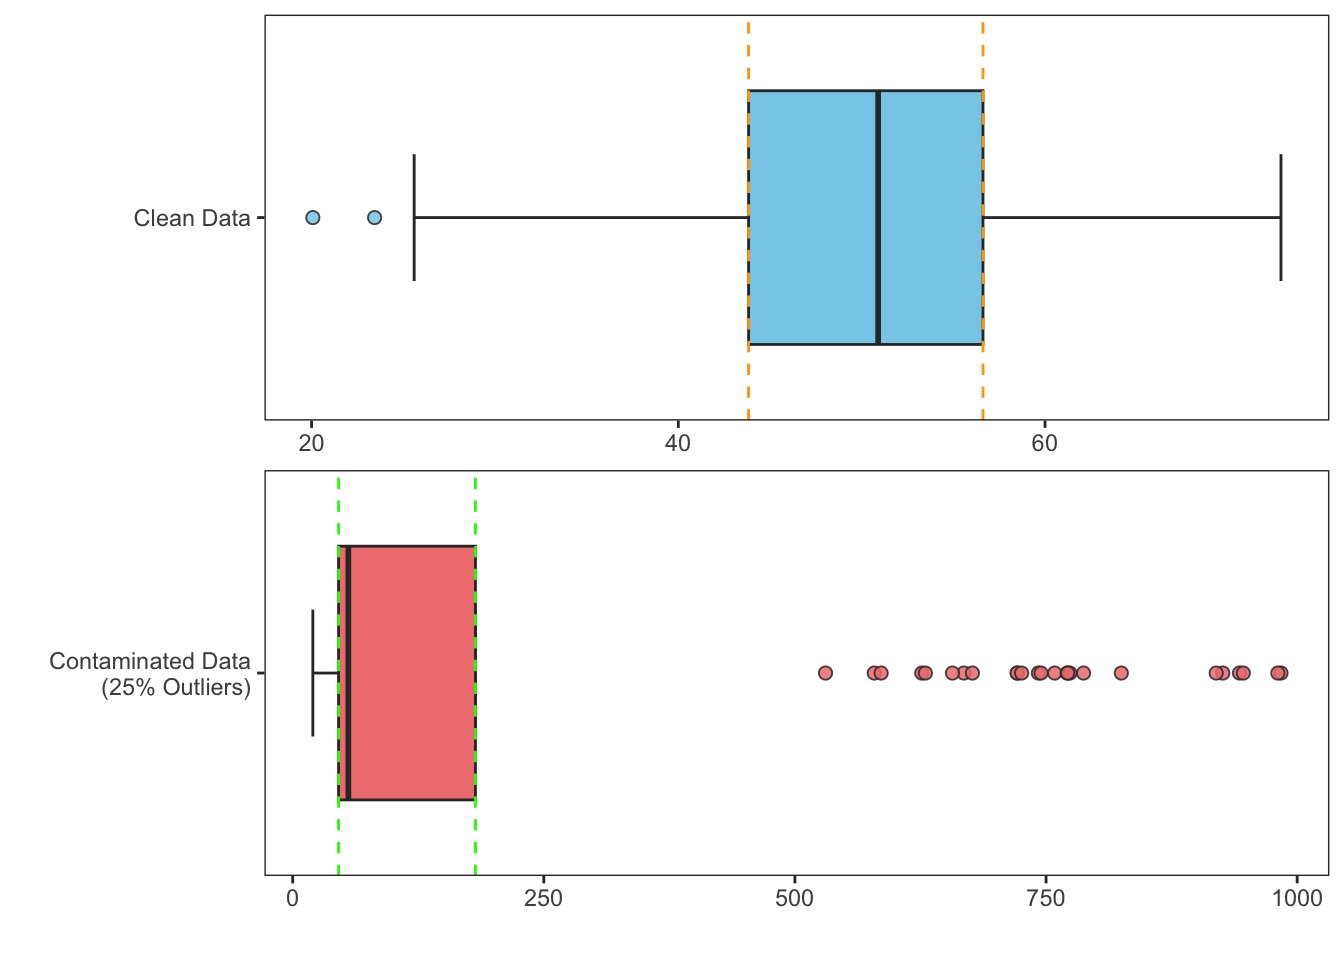
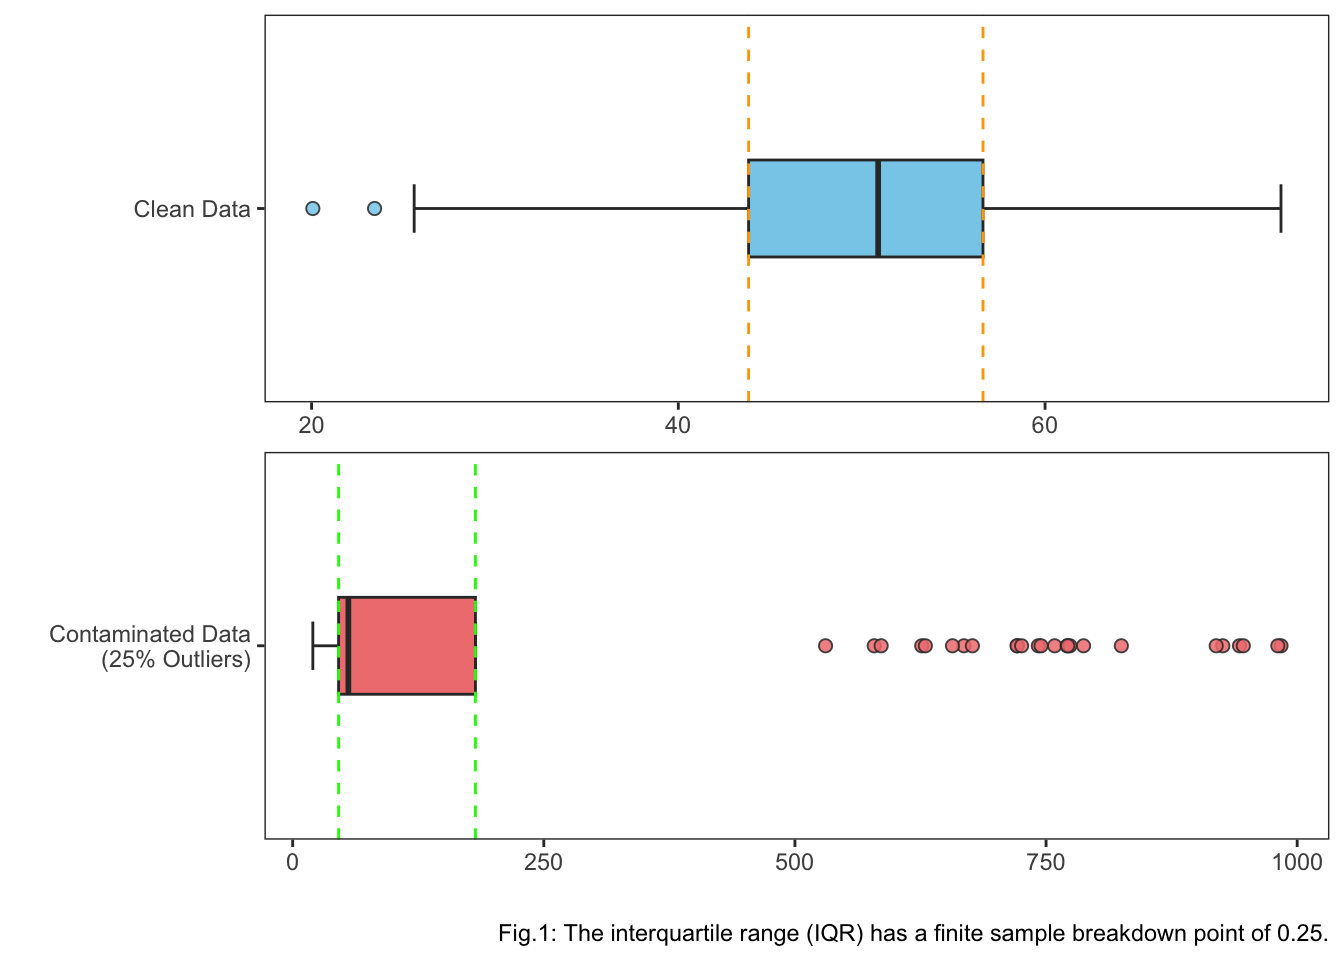
Updates

diff --git a/docs/blog/posts/post7/index.html b/docs/blog/posts/post7/index.html
@@ -8,9 +8,9 @@
 
 <meta name="author" content="Christian L. Goueguel">
 <meta name="dcterms.date" content="2023-11-20">
-<meta name="description" content="Boxplots, also known as box-and-whisker plots, have been a cornerstone of data visualization since their introduction by John Tukey in the 1970s. Boxplots are designed to smmuarise the distribution of a dataset, highlighting the central tendency, spread, and potential outliers. Despite their enduring utility, standard boxplots assume a symmetric distribution and may misrepresent datasets with skewness or heavy tails. Alternative approaches have been proposed to address these limitations.">
+<meta name="description" content="Boxplots, also known as box-and-whisker plots, have been a cornerstone of data visualization since their introduction by John Tukey in the 1970s. Despite their enduring utility, boxplot assumes a symmetric distribution and might misrepresent datasets with skewness or heavy tails. Alternative approaches have been proposed to address these limitations.">
 
-<title>Beyond Traditional Boxplots: The Adjusted and Generalized Boxplots – Christian L. Goueguel</title>
+<title>Beyond Traditional Boxplot: The Adjusted and Generalized Boxplots – Christian L. Goueguel</title>
 <style>
 code{white-space: pre-wrap;}
 span.smallcaps{font-variant: small-caps;}
@@ -70,10 +70,39 @@ ul.task-list li input[type="checkbox"] {
   }
 }</script>
 
+  <script src="https://cdnjs.cloudflare.com/polyfill/v3/polyfill.min.js?features=es6"></script>
+  <script src="https://cdn.jsdelivr.net/npm/mathjax@3/es5/tex-chtml-full.js" type="text/javascript"></script>
+
+<script type="text/javascript">
+const typesetMath = (el) => {
+  if (window.MathJax) {
+    // MathJax Typeset
+    window.MathJax.typeset([el]);
+  } else if (window.katex) {
+    // KaTeX Render
+    var mathElements = el.getElementsByClassName("math");
+    var macros = [];
+    for (var i = 0; i < mathElements.length; i++) {
+      var texText = mathElements[i].firstChild;
+      if (mathElements[i].tagName == "SPAN") {
+        window.katex.render(texText.data, mathElements[i], {
+          displayMode: mathElements[i].classList.contains('display'),
+          throwOnError: false,
+          macros: macros,
+          fleqn: false
+        });
+      }
+    }
+  }
+}
+window.Quarto = {
+  typesetMath
+};
+</script>
 
 <link rel="stylesheet" href="../../../styles.scss">
-<meta property="og:title" content="Beyond Traditional Boxplots: The Adjusted and Generalized Boxplots – Christian L. Goueguel">
-<meta property="og:description" content="Boxplots, also known as box-and-whisker plots, have been a cornerstone of data visualization since their introduction by John Tukey in the 1970s. Boxplots are designed to smmuarise the distribution of a dataset, highlighting the central tendency, spread, and potential outliers. Despite their enduring utility, standard boxplots assume a symmetric distribution and may misrepresent datasets with skewness or heavy tails. Alternative approaches have been proposed to address these limitations.">
+<meta property="og:title" content="Beyond Traditional Boxplot: The Adjusted and Generalized Boxplots – Christian L. Goueguel">
+<meta property="og:description" content="Boxplots, also known as box-and-whisker plots, have been a cornerstone of data visualization since their introduction by John Tukey in the 1970s. Despite their enduring utility, boxplot assumes a symmetric distribution and might misrepresent datasets with skewness or heavy tails. Alternative approaches have been proposed to address these limitations.">
 <meta property="og:image" content="cover.png">
 <meta property="og:site_name" content="Christian L. Goueguel">
 </head>
@@ -146,7 +175,7 @@ ul.task-list li input[type="checkbox"] {
 
 <header id="title-block-header" class="quarto-title-block default">
 <div class="quarto-title">
-<h1 class="title">Beyond Traditional Boxplots: The Adjusted and Generalized Boxplots</h1>
+<h1 class="title">Beyond Traditional Boxplot: The Adjusted and Generalized Boxplots</h1>
   <div class="quarto-categories">
     <div class="quarto-category">Preprocessing</div>
     <div class="quarto-category">Chemometrics</div>
@@ -158,7 +187,7 @@ ul.task-list li input[type="checkbox"] {
 
 <div>
   <div class="description">
-    Boxplots, also known as box-and-whisker plots, have been a cornerstone of data visualization since their introduction by John Tukey in the 1970s. Boxplots are designed to smmuarise the distribution of a dataset, highlighting the central tendency, spread, and potential outliers. Despite their enduring utility, standard boxplots assume a symmetric distribution and may misrepresent datasets with skewness or heavy tails. Alternative approaches have been proposed to address these limitations.
+    Boxplots, also known as box-and-whisker plots, have been a cornerstone of data visualization since their introduction by John Tukey in the 1970s. Despite their enduring utility, boxplot assumes a symmetric distribution and might misrepresent datasets with skewness or heavy tails. Alternative approaches have been proposed to address these limitations.
   </div>
 </div>
 
@@ -196,21 +225,8 @@ ul.task-list li input[type="checkbox"] {
 </div>
 <section id="tukeys-boxplot" class="level2">
 <h2 class="anchored" data-anchor-id="tukeys-boxplot">Tukey’s Boxplot</h2>
-<p>Proposed by Tukey in 1977 [1], a boxplot is constructed using five key summary statistics: the minimum, first quartile (Q1), median, third quartile (Q3), and maximum. These elements are complemented by whiskers, which typically extend to 1.5 times the interquartile range (IQR = Q3 - Q1) beyond Q1 and Q3, respectively. Data points outside this range are flagged as potential outliers. Figure 1 shows a boxplot with two outliers. The ends of the whiskers are called <em>adjacent values.</em> They are the smallest and largest values not declared outliers. Because the interquartile range has a finite sample breakdown point of .25, it takes more than 25% of the data to be outliers before the problem of masking occurs.</p>
-<p>While effective for symmetric distributions, the standard boxplot may inadequately capture the nuances of skewed or heavy-tailed data.</p>
+<p>Proposed by Tukey in 1977 [1], a boxplot is constructed using five key summary statistics: the minimum, first quartile (Q1), median, third quartile (Q3), and maximum. These elements are complemented by whiskers, which typically extend to 1.5 times the interquartile range (IQR = Q3 - Q1) beyond Q1 and Q3, respectively. Data points outside this range are flagged as potential outliers. The ends of the whiskers are called adjacent values. They are the smallest and largest values not flagged outliers. Because the interquartile range has a finite sample breakdown point of 0.25, it takes more than 25% of the data to be outliers before the problem of masking occurs. For example, Fig.1 shows how the quartiles and therefore IQR are significantly influenced by the outliers, highlighting the breakdown point. After replacing 25% of the data with extreme outliers, the IQR increased drastically, from 13 (clean data) to 136 (contaminated data). This demonstrates that with 25% contamination, the IQR becomes unreliable as a measure of spread.</p>
 <div class="cell">
-<div class="cell-output cell-output-stderr">
-<pre><code>── Attaching core tidyverse packages ──────────────────────── tidyverse 2.0.0 ──
-✔ dplyr     1.1.4     ✔ readr     2.1.5
-✔ forcats   1.0.0     ✔ stringr   1.5.1
-✔ ggplot2   3.5.1     ✔ tibble    3.2.1
-✔ lubridate 1.9.3     ✔ tidyr     1.3.1
-✔ purrr     1.0.2     
-── Conflicts ────────────────────────────────────────── tidyverse_conflicts() ──
-✖ dplyr::filter() masks stats::filter()
-✖ dplyr::lag()    masks stats::lag()
-ℹ Use the conflicted package (&lt;http://conflicted.r-lib.org/&gt;) to force all conflicts to become errors</code></pre>
-</div>
 <div class="cell-output-display">
 <div>
 <figure class="figure">
@@ -218,23 +234,33 @@ ul.task-list li input[type="checkbox"] {
 </figure>
 </div>
 </div>
-<div class="cell-output cell-output-stderr">
-<pre><code>Warning: Using `size` aesthetic for lines was deprecated in ggplot2 3.4.0.
-ℹ Please use `linewidth` instead.</code></pre>
 </div>
+<p>While boxplot is a widely used tool for visualizing data distributions, especially when those distributions are symmetric. However, its effectiveness diminishes when dealing with skewed data. In such cases, the boxplot can misrepresent the dataset’s nuances—most notably by classifying an excessive number of larger values as outliers when the distribution is skewed to the right. Recognizing this limitation, Hubert and Vandervieren [2] introduced a refined version of Tukey’s boxplot rule. Their approach incorporates a robust measure of skewness, allowing for a more accurate depiction of asymmetrical distributions while preserving the simplicity and interpretability of the Tukey’s boxplot.</p>
+</section>
+<section id="the-adjusted-boxplot" class="level2">
+<h2 class="anchored" data-anchor-id="the-adjusted-boxplot">The Adjusted Boxplot</h2>
+<p>In 2004, Brys <em>et al</em>. [3] introduced the Medcouple (MC), which is a robust statistic used to measure the skewness of a distribution. Unlike traditional measures of skewness that are sensitive to outliers, MC focuses on the median and the IQR, making it less affected by extreme values. It is based on the difference between left and right data spreads relative to the median. MC is bounded between −1 and 1. A value of 0 indicates a perfectly symmetric distribution, while positive values signify a right-tailed (positively skewed) distribution, and negative values correspond to a left-tailed (negatively skewed) distribution. Importantly, this measure is most effective for moderately skewed distributions, particularly when the absolute value of MC is less than or equal to 0.6 (<span class="math inline">\(|\text{MC}| \leq 0.6\)</span>). MC is given by:</p>
+<p><span class="math display">\[
+\text{MC} = \text{med} \left\{ \frac{(x_i - m) - (m - x_j)}{x_i - x_j} \, \middle| \, x_i \geq m \geq x_j \right\}
+\]</span></p>
+<p>where, <span class="math inline">\(x_i\)</span> and <span class="math inline">\(x_j\)</span> are data points from the sample, <span class="math inline">\(m\)</span> is the median of the sample, and <span class="math inline">\(\text{med}\{\cdot\}\)</span> denotes the median operator.</p>
+<p>To address the limitation of the Tukey’s boxplot in handling skewed data, Hubert and Vandervieren [2] introduced the adjusted boxplot for skewed distribution. This method modifies the whisker length based on the MC. Specifically, the upper whisker extends further for right-skewed data, and the lower whisker extends further for left-skewed data. This new approch modifies the traditional boxplot fences to account for skewness in the data using the exponential function of MC as follows:</p>
+<p><span class="math display">\[
+\begin{aligned}
+    \text{Lower Fence} &amp;= Q_1 - k \cdot e^{-\text{MC}} \cdot \text{IQR} \\
+    \text{Upper Fence} &amp;= Q_3 + k \cdot e^{\text{MC}} \cdot \text{IQR}
+\end{aligned}
+\]</span></p>
+<p>where, <span class="math inline">\(k\)</span> is the fence factor. The adjusted boxplot is optimized for <span class="math inline">\(k = 1.5\)</span>.</p>
+<div class="cell">
 <div class="cell-output-display">
 <div>
 <figure class="figure">
-<p><img src="index_files/figure-html/unnamed-chunk-1-2.png" class="img-fluid figure-img" width="672"></p>
+<p><img src="index_files/figure-html/unnamed-chunk-2-1.png" class="img-fluid figure-img" width="672"></p>
 </figure>
 </div>
 </div>
 </div>
-</section>
-<section id="the-adjusted-boxplot" class="level2">
-<h2 class="anchored" data-anchor-id="the-adjusted-boxplot">The Adjusted Boxplot</h2>
-<p>It should be noted that the boxplot rule for detecting outliers has been criticized on the grounds that it might declare too many points outliers when there is skewness. More precisely, if a distribution is skewed to the right, among the larger values that are observed, too many might be declared outliers. Hubert and Vandervieren (2008) review the literature and suggest a modification of the boxplot rule that is based in part on a robust measure of skewness, called the <em>medcouple</em>, which was introduced by Brys et al.&nbsp;(2004) and is given by:</p>
-<p>To address the limitations of the standard boxplot in handling skewed data, Hubert and Vandervieren (2008) introduced the skew-adjusted boxplot. This method modifies the whisker length based on the medcouple, a robust skewness statistic. Specifically, the upper whisker extends further for right-skewed data, and the lower whisker extends further for left-skewed data. This adjustment ensures a more accurate representation of the data’s spread while retaining the robustness of the standard boxplot.</p>
 </section>
 <section id="the-generalized-boxplot" class="level2">
 <h2 class="anchored" data-anchor-id="the-generalized-boxplot">The Generalized Boxplot</h2>

diff --git a/docs/blog/index.html b/docs/blog/index.html
@@ -263,7 +263,7 @@ Christian L. Goueguel
 </a>
 </div>
 </div>
[2 lines of base64/hex data omitted]
 <div class="thumbnail">
 <p><a href="../blog/posts/post7/index.html" class="no-external"></a></p><a href="../blog/posts/post7/index.html" class="no-external">
 <p><img loading="lazy" src="../blog/posts/post7/cover.png" class="thumbnail-image"></p>
@@ -271,13 +271,13 @@ Christian L. Goueguel
 </div>
 <div class="body">
 <h3 class="no-anchor listing-title">
-<a href="../blog/posts/post7/index.html" class="no-external">Beyond Traditional Boxplots: The Adjusted and Generalized Boxplots</a>
+<a href="../blog/posts/post7/index.html" class="no-external">Beyond Traditional Boxplot: The Adjusted and Generalized Boxplots</a>
 </h3>
 <div class="listing-subtitle">
 <a href="../blog/posts/post7/index.html" class="no-external"></a>
 </div>
 <div class="listing-description">
-<a href="../blog/posts/post7/index.html" class="no-external">Boxplots, also known as box-and-whisker plots, have been a cornerstone of data visualization since their introduction by John Tukey in the 1970s. Boxplots are designed to smmuarise the distribution of a dataset, highlighting the central tendency, spread, and potential outliers. Despite their enduring utility, standard boxplots assume a symmetric distribution and may misrepresent datasets with skewness or heavy tails. Alternative approaches have been proposed to address these limitations.</a>
+<a href="../blog/posts/post7/index.html" class="no-external">Boxplots, also known as box-and-whisker plots, have been a cornerstone of data visualization since their introduction by John Tukey in the 1970s. Despite their enduring utility, boxplot assumes a symmetric distribution and might misrepresent datasets with skewness or heavy tails. Alternative approaches have been proposed to address these limitations.</a>
 </div>
 </div>
 <div class="metadata">
@@ -289,7 +289,7 @@ Nov 20, 2023
 Christian L. Goueguel
 </div>
 <div class="listing-reading-time">
-4 min
+7 min
 </div>
 </a>
 </div>
